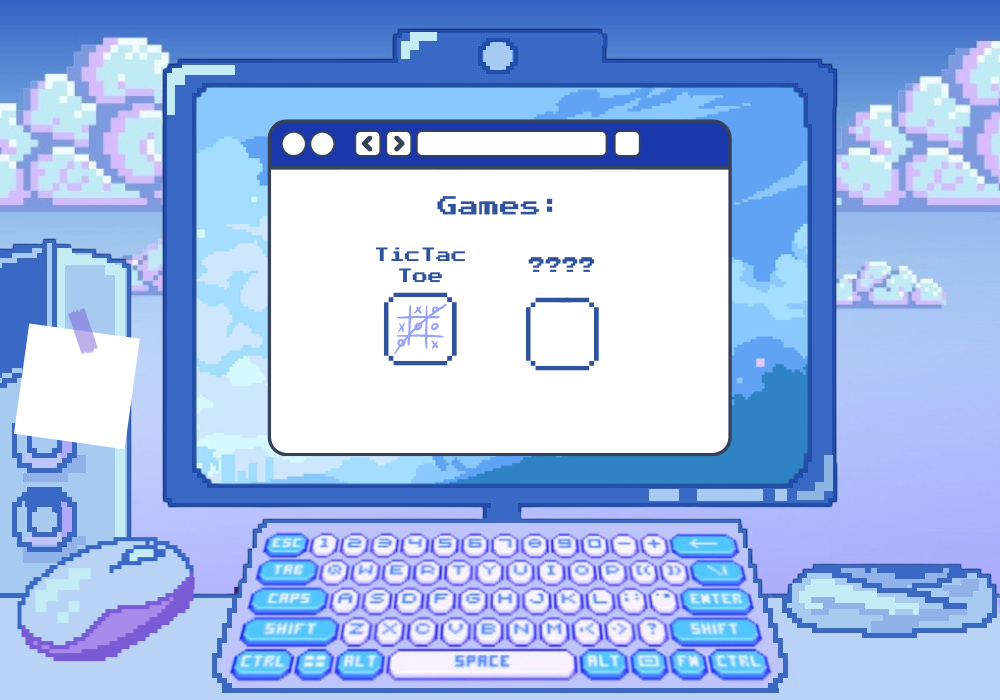
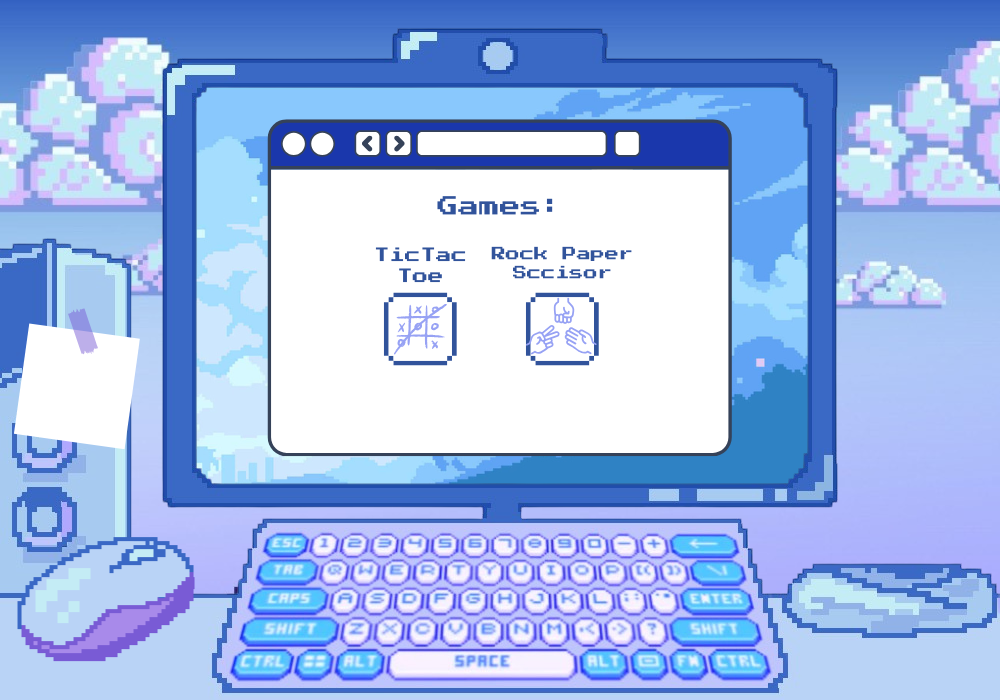
started on rps...

Changed region(s): [[0.496, 0.33, 0.62, 0.54]]

diff --git a/src/ButtonClass.java b/src/ButtonClass.java
@@ -11,7 +11,7 @@ import java.util.ArrayList;
 public class ButtonClass {
     private Player player;
     private JButton livestreamApp, nextButton, mailApp, bookBtn,
-            editApp, powerOn, shopApp, gamesApp, endDay, accept, decline, next, ticTacToe;
+            editApp, powerOn, shopApp, gamesApp, endDay, accept, decline, next, ticTacToe, rpsGame, singleBtn, doubleBtn;
     private JTextArea livestreamChat;
     private JScrollPane scrollPane;
     private JTextField usernameText, passwordText;
@@ -56,6 +56,9 @@ public class ButtonClass {
         gamesApp = new JButton();
         endDay = new JButton();
         ticTacToe = new JButton();
+        rpsGame = new JButton();
+        singleBtn = new JButton();
+        doubleBtn = new JButton();
 
         try {
             pressStartFont = Font.createFont(Font.TRUETYPE_FONT, new File("src/PressStart2P-Regular.ttf"))
@@ -132,6 +135,18 @@ public class ButtonClass {
         ticTacToe.setContentAreaFilled(true);
         ticTacToe.setBorderPainted(true);
 
+        rpsGame.setOpaque(true);
+        rpsGame.setContentAreaFilled(true);
+        rpsGame.setBorderPainted(true);
+
+        singleBtn.setOpaque(true);
+        singleBtn.setContentAreaFilled(true);
+        singleBtn.setBorderPainted(true);
+
+        doubleBtn.setOpaque(true);
+        doubleBtn.setContentAreaFilled(true);
+        doubleBtn.setBorderPainted(true);
+
         //testing
         customizeButton(powerOn);
 //        powerOn.setOpaque(true);
@@ -144,7 +159,8 @@ public class ButtonClass {
 
         //set text field fonts
         //usernameText.setFont(new Font("Serif", Font.BOLD, 60));
-        usernameText.setFont(pressStartFont);
+//        usernameText.setFont(pressStartFont);
+        usernameText.setFont(pressStartFont.deriveFont(45f));
         passwordText.setFont(pressStartFont);
 //        passwordText.setFont(new Font("Serif", Font.BOLD, 60));
         livestreamApp.setFont(new Font("Serif", Font.ITALIC, 15));
@@ -161,7 +177,8 @@ public class ButtonClass {
         nextButton.setBounds(515,165,90,90);
         bookBtn.setBounds(625, 285, 145, 125);
         powerOn.setBounds(680,455,80,18);
-        ticTacToe.setBounds(350,350,65,65);
+        ticTacToe.setBounds(380,275,65,65);
+        rpsGame.setBounds(520,275,65,65);
 
         //livestreamApp.setVisible(false);
 
@@ -177,6 +194,9 @@ public class ButtonClass {
         btnPanel.add(shopApp);
         btnPanel.add(endDay);
         btnPanel.add(ticTacToe);
+        btnPanel.add(rpsGame);
+        btnPanel.add(singleBtn);
+        btnPanel.add(doubleBtn);
 
         addActionListeners();
     }
@@ -326,6 +346,10 @@ public class ButtonClass {
         gamesApp.addActionListener(e -> {
             cardLayoutPanel.showCard("GamesScreen");
         });
+
+        rpsGame.addActionListener(e -> {
+            cardLayoutPanel.showCard("RockPaperScissors");
+        });
     }
 
 //    public void setContinueButtonListener(ActionListener listener) {
@@ -406,12 +430,24 @@ public class ButtonClass {
         return ticTacToe;
     }
 
+    public JButton getRpsGame() {
+        return rpsGame;
+    }
+
+    public JButton getSingleBtn() {
+        return singleBtn;
+    }
+
+    public JButton getDoubleBtn() {
+        return doubleBtn;
+    }
+
     public void addPassword() {
         JLabel passwordLabel = new JLabel(String.valueOf(player.getPassword()));
         passwordLabel.setFont(pressStartFont);
         Color color = Color.decode("#1a37ac");
         passwordLabel.setForeground(color);
-        passwordLabel.setBounds(50, 325, 100, 50);
+        passwordLabel.setBounds(40, 325, 100, 50);
 
         JPanel appScreen = cardLayoutPanel.getAppScreen();
         appScreen.setLayout(null);

diff --git a/src/Frame.java b/src/Frame.java
@@ -40,6 +40,7 @@ public class Frame extends JFrame implements ActionListener {
         JPanel mailScreen = PanelClass.createPanel("src/MailImages/mailhomepage.png");
         auraInfo = PanelClass.createPanel("src/images/tutorial.jpeg");
         JPanel gamesScreen = PanelClass.createPanel("src/images/GamesScreen.png");
+        JPanel rpsScreen = PanelClass.createPanel("src/images/RockPaperScissorsGame/startScreen.png");
 
 
 //        try {
@@ -193,7 +194,8 @@ public class Frame extends JFrame implements ActionListener {
         livestreamScreen.setLayout(null);
         mailScreen.setLayout(null);
         auraInfo.setLayout(null);
-        gamesScreen.setUI(null);
+        gamesScreen.setLayout(null);
+        rpsScreen.setLayout(null);
 
         //add buttons
         startScreen.add(buttonClass.getUsernameText());
@@ -209,6 +211,7 @@ public class Frame extends JFrame implements ActionListener {
         appScreen.add(buttonClass.getEndDay());
         gamesScreen.add(buttonClass.getTicTacToe());
         livestreamScreen.add(buttonClass.getScrollPane(), BorderLayout.CENTER);
+        gamesScreen.add(buttonClass.getRpsGame());
 
         mainPanel.add(startScreen, "StartScreen");
         mainPanel.add(tutorialScreen, "TutorialScreen");
@@ -220,8 +223,7 @@ public class Frame extends JFrame implements ActionListener {
         mainPanel.add(appScreen, "AppScreen");
         mainPanel.add(auraInfo, "auraInfo");
         mainPanel.add(gamesScreen, "GamesScreen");
-
-
+        mainPanel.add(rpsScreen,"RockPaperScissors");
 
         livestreamScreen.add(scrollPane);
 
